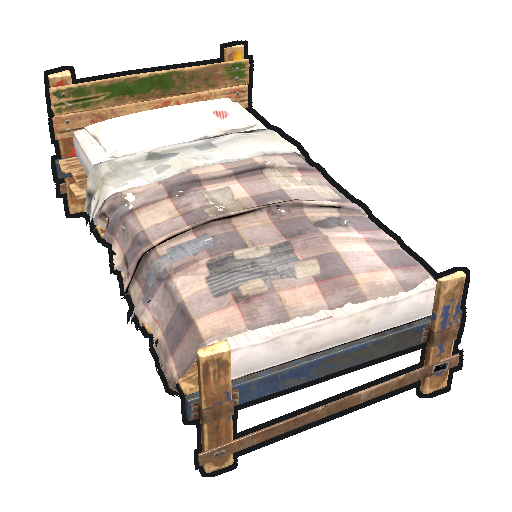
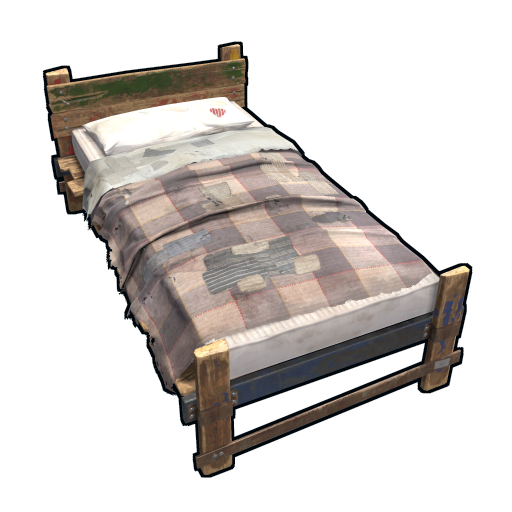
update

Changed region(s): [[0.0625, 0.0625, 0.9375, 0.9375]]

diff --git a/src/structures/Ai.js b/src/structures/Ai.js
@@ -4,8 +4,17 @@ const Path = require('path');
 const Config = require('../../config');
 const Groq = require("groq-sdk");
 const Client = require('../../index.ts');
+const Items = require('./Items');
 
 class Ai {
+
+    set items(value) {
+        this._items = value;
+    }
+    
+    get items() {
+        return this._items;
+    }
 
     constructor(guildId = null) {
         this.guildId = guildId;
@@ -17,7 +26,7 @@ class Ai {
 
 
         this.instance = this.getInstance();
-        this.items = Client.client.items;
+        this._items = new Items();
     }
 
     getInstance() {
@@ -25,16 +34,32 @@ class Ai {
     }
 
     getItem(name) {
-        let itemId = Client.client.items.getClosestItemIdByName(name);
+        let itemId = this.getTtemIdByName(name);
         if (itemId) {
-            let item = Client.client.items.getItem(itemId);
+            let item = this.items.getItem(itemId);
             return item;
         }
         return null;
     }
 
+    getTtemIdByName(name) {
+        return this.items.getClosestItemIdByName(name);
+    }
+
     async create(body) {
         return await this.openai.chat.completions.create(body);
+    }
+
+    async askRaidQuestion() {
+    
+    }
+
+    async askGamblingQuestion(question) {
+        this.items.getItemByName('stone');
+    }
+
+    async askCostQuestion(question) {
+    
     }
 
     async askAiBot(query) {
@@ -48,8 +73,8 @@ class Ai {
                 + "Assume Vanilla game settings when calculating item and building stats in calculations for damage, health, durability, decay, despawn, recycle.\n"
                 + "Assume all questions about Rust refer to the PC game developed by Facepunch (https://rust.facepunch.com/), not the programming language.\n"
                 + "The only exception is if the user asks a gambling question about Casino games in Rust (black jack, slot machine, big wheel).\n"
-                + "Provide a concise, brief, final answer only, without any additional commentary or preamble.\n"
-                + "Use Plain Text format only, no Markdown, no code blocks.\n"
+                + "Provide a concise final answer.\n"
+                + "Use Plain Text in your output, do not use any special characters that require encoding.\n"
         };
 
         const userMsg = {
@@ -83,10 +108,10 @@ class Ai {
             const resp = await this.create({
                 model: "moonshotai/kimi-k2-instruct",
                 messages,
-                temperature: 0.5,
+                temperature: 0.8,
                 max_completion_tokens: 4096,
                 search_settings:{
-                    include_domains: ["rusthelp.com", "wiki.rustclash.com"]
+                    include_domains: ["rusthelp.com", "wiki.rustclash.com", "https://rust.facepunch.com/news/"]
                 }
             });
 
